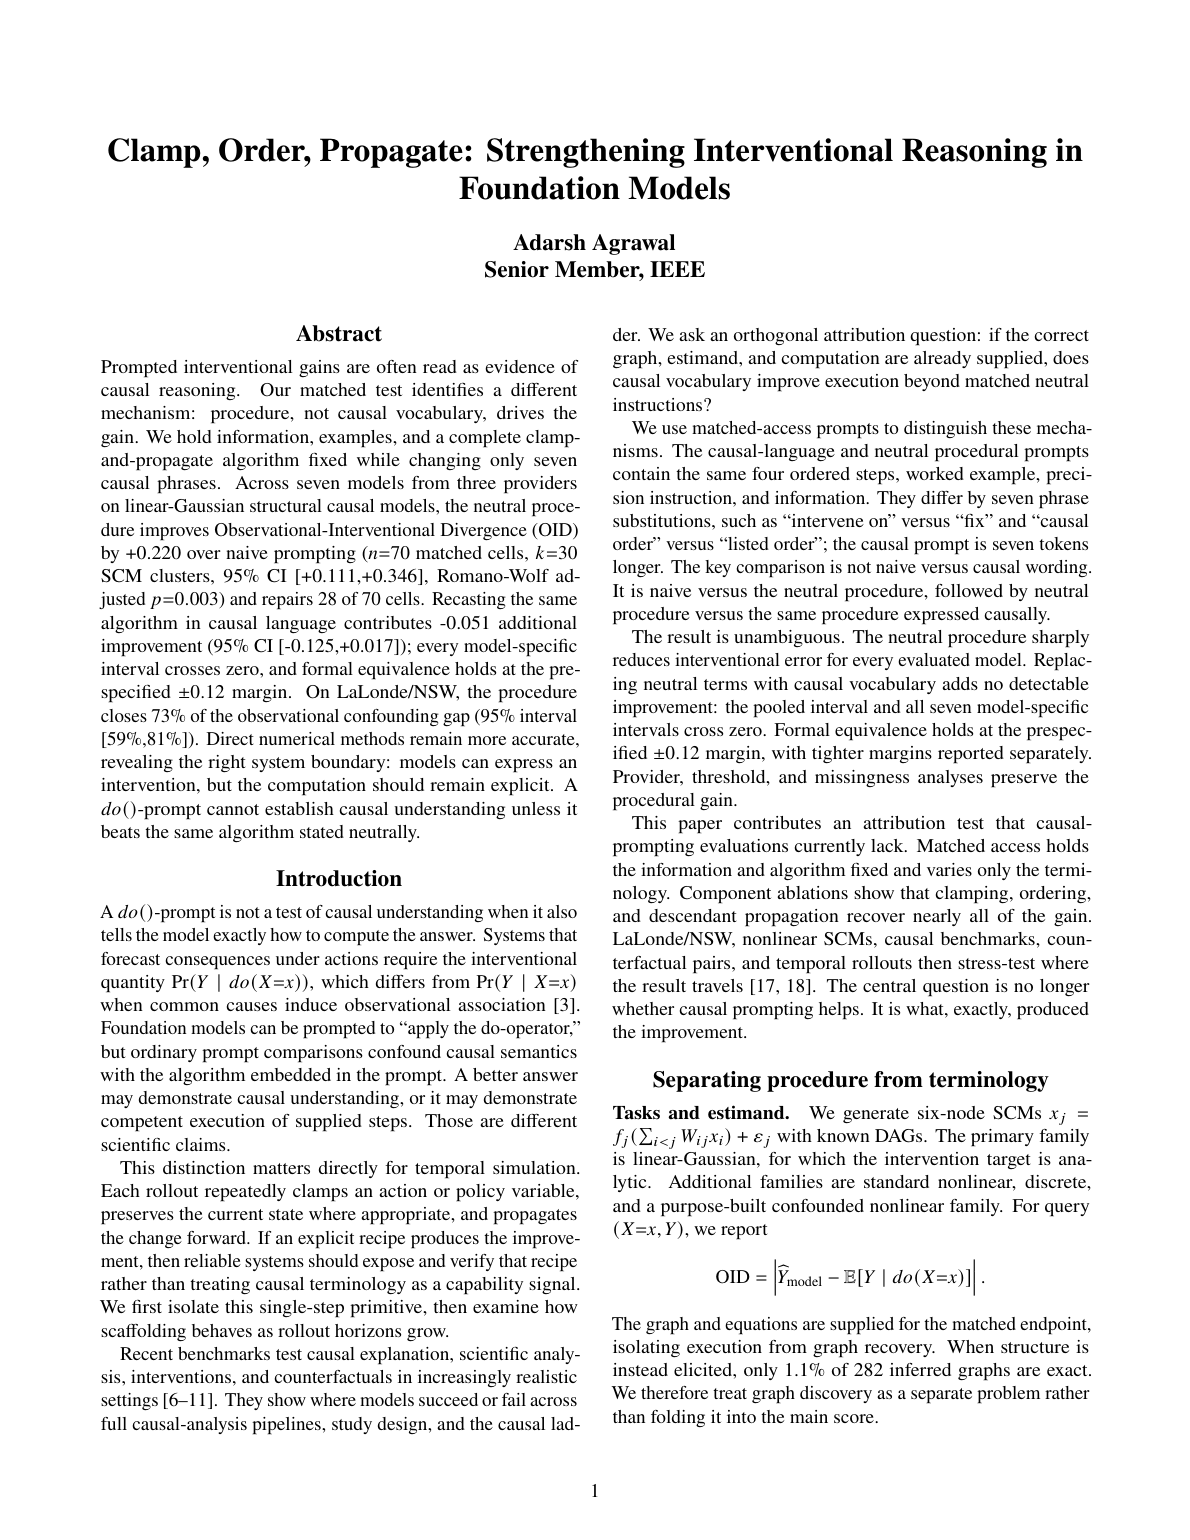
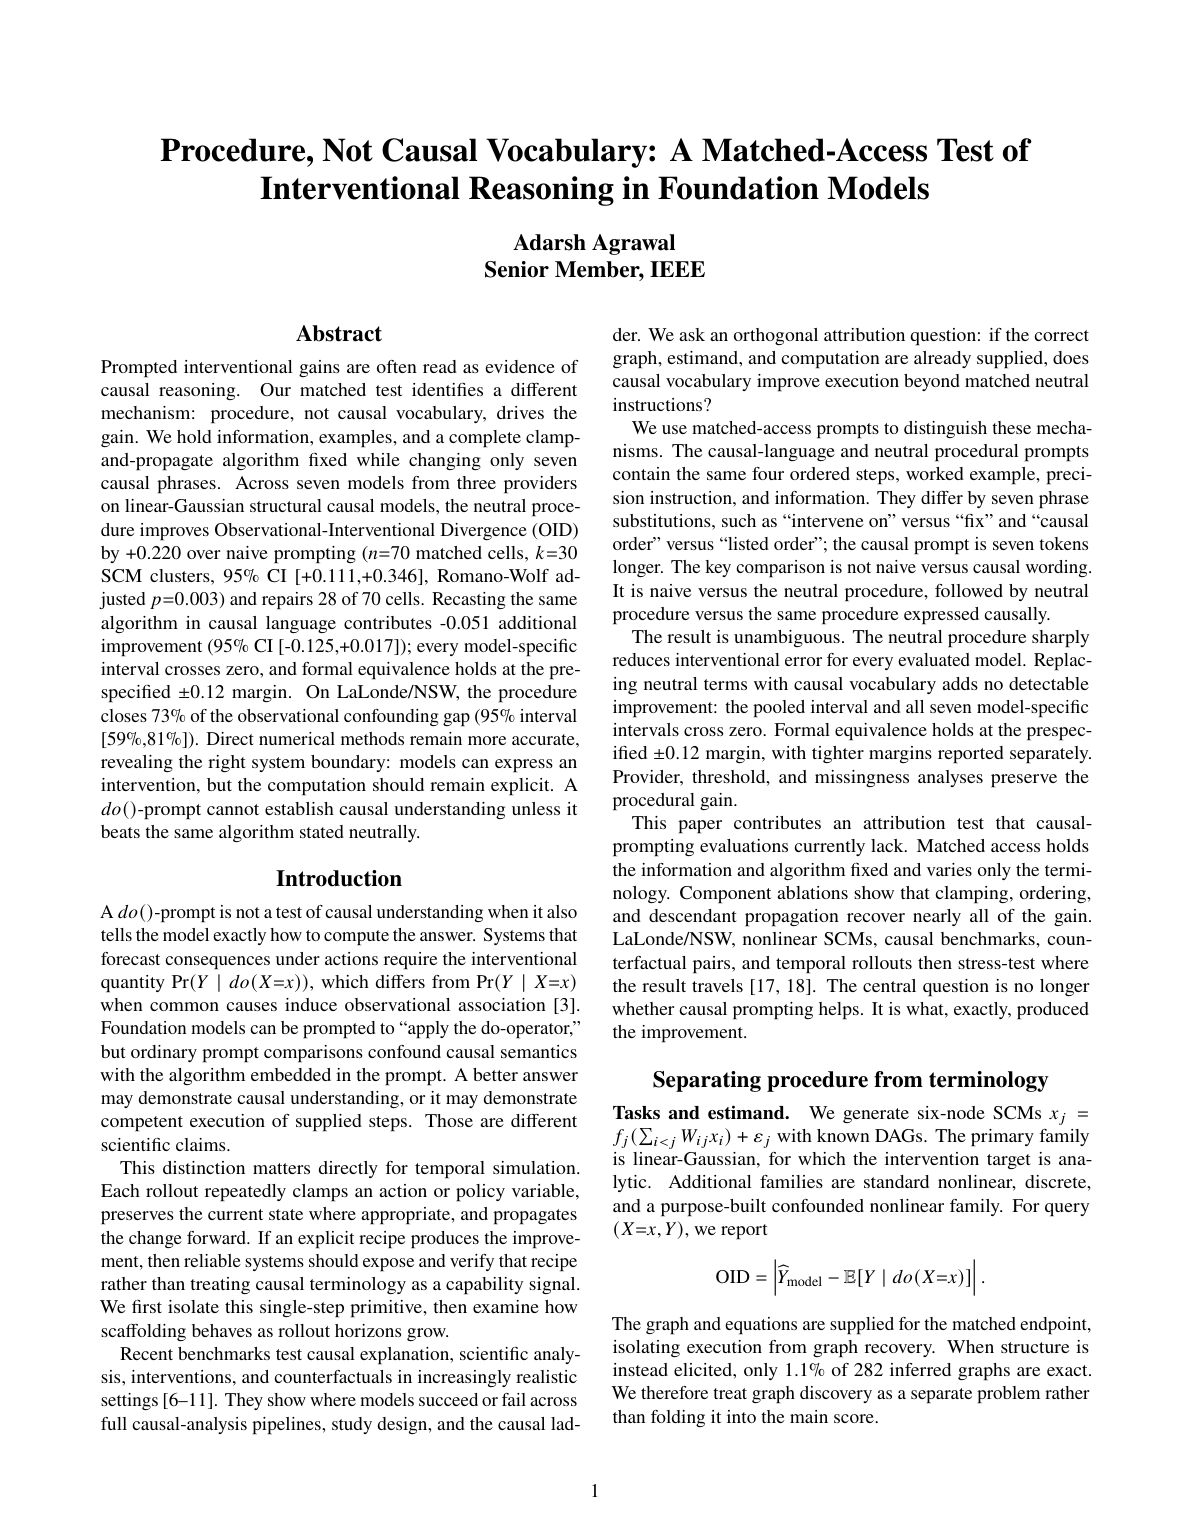
research: restore original intervention paper title

Changed region(s): [[0.0933, 0.0935, 0.9017, 0.1558]]

diff --git a/research.html b/research.html
@@ -55,10 +55,10 @@
 
         <article class="publication-row">
           <a class="paper-cover" href="papers/clamp-order-propagate/clamp-order-propagate.pdf">
-            <img src="assets/papers/clamp-order-propagate.png" alt="First page of the Clamp, Order, Propagate paper" width="1190" height="1540">
+            <img src="assets/papers/clamp-order-propagate.png" alt="First page of the Procedure, Not Causal Vocabulary paper" width="1190" height="1540">
           </a>
           <div class="publication-copy">
-            <h3><a href="papers/clamp-order-propagate/clamp-order-propagate.pdf">Clamp, Order, Propagate: Strengthening Interventional Reasoning in Foundation Models</a></h3>
+            <h3><a href="papers/clamp-order-propagate/clamp-order-propagate.pdf">Procedure, Not Causal Vocabulary: A Matched-Access Test of Interventional Reasoning in Foundation Models</a></h3>
             <p class="authors">Adarsh Agrawal</p>
             <p>A matched-access study showing that explicit clamp, order, and propagate procedures improve interventional accuracy across seven foundation models, while causal vocabulary adds no measurable benefit.</p>
             <div class="publication-actions">

diff --git a/assets/site.js b/assets/site.js
@@ -4,7 +4,7 @@ const toast = document.querySelector("[data-toast]");
 
 const citations = {
   clamporderpropagate2026: `@misc{agrawal2026clamporderpropagate,
-  title={Clamp, Order, Propagate: Strengthening Interventional Reasoning in Foundation Models},
+  title={Procedure, Not Causal Vocabulary: A Matched-Access Test of Interventional Reasoning in Foundation Models},
   author={Agrawal, Adarsh},
   year={2026},
   url={https://addarshh.github.io/papers/clamp-order-propagate/clamp-order-propagate.pdf}
